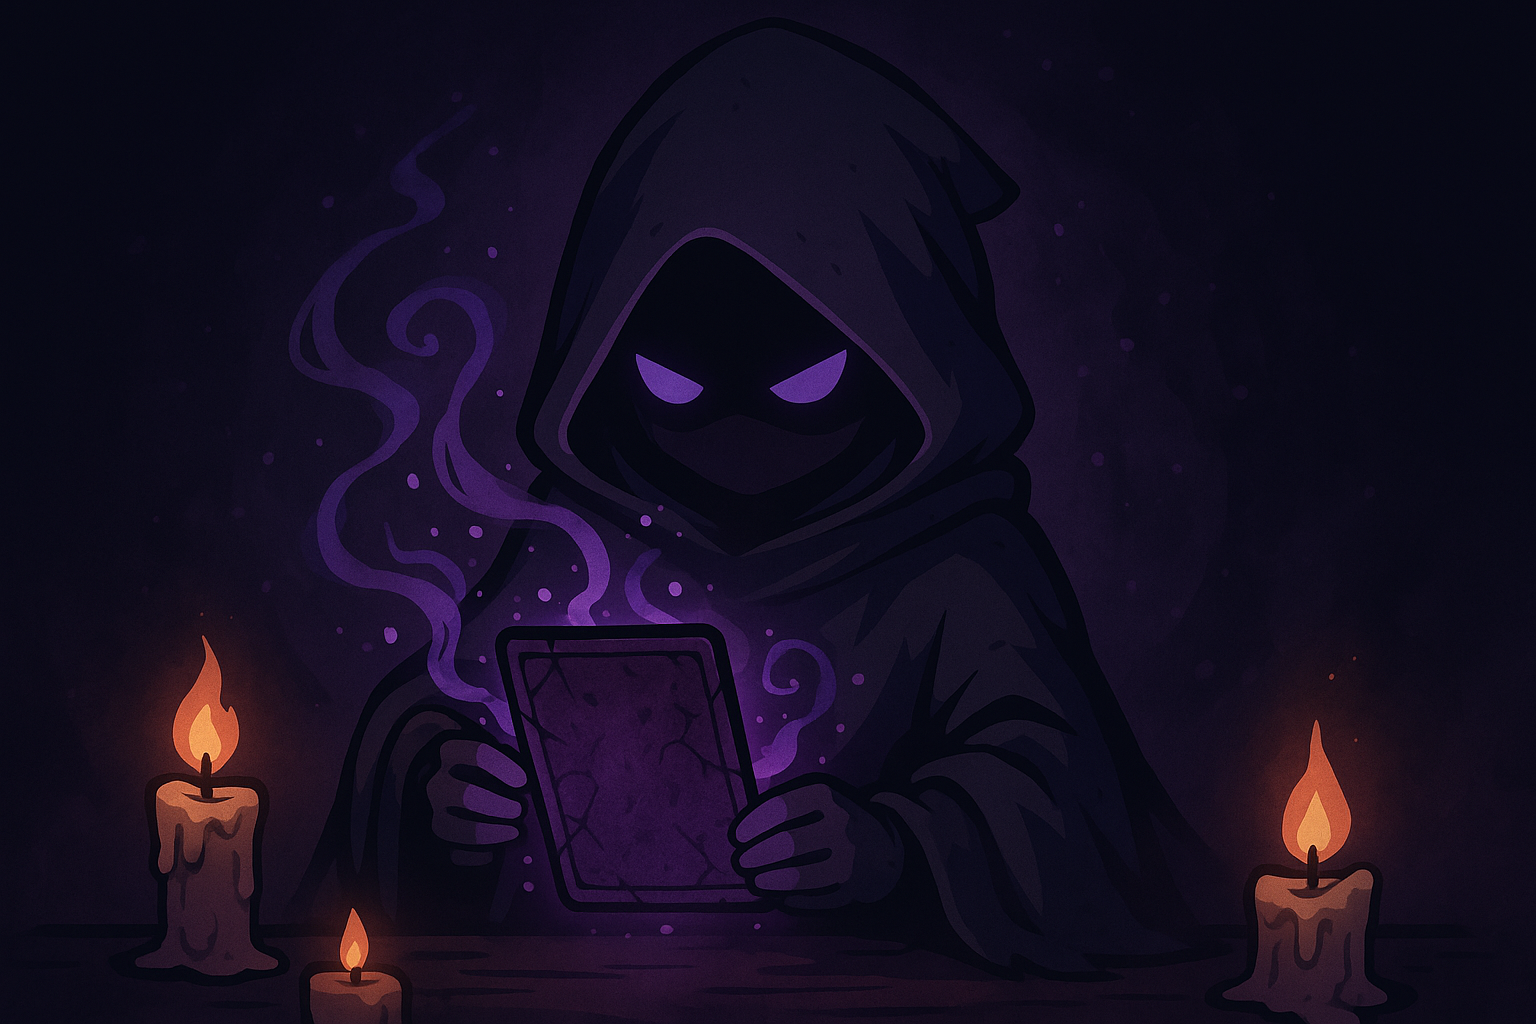
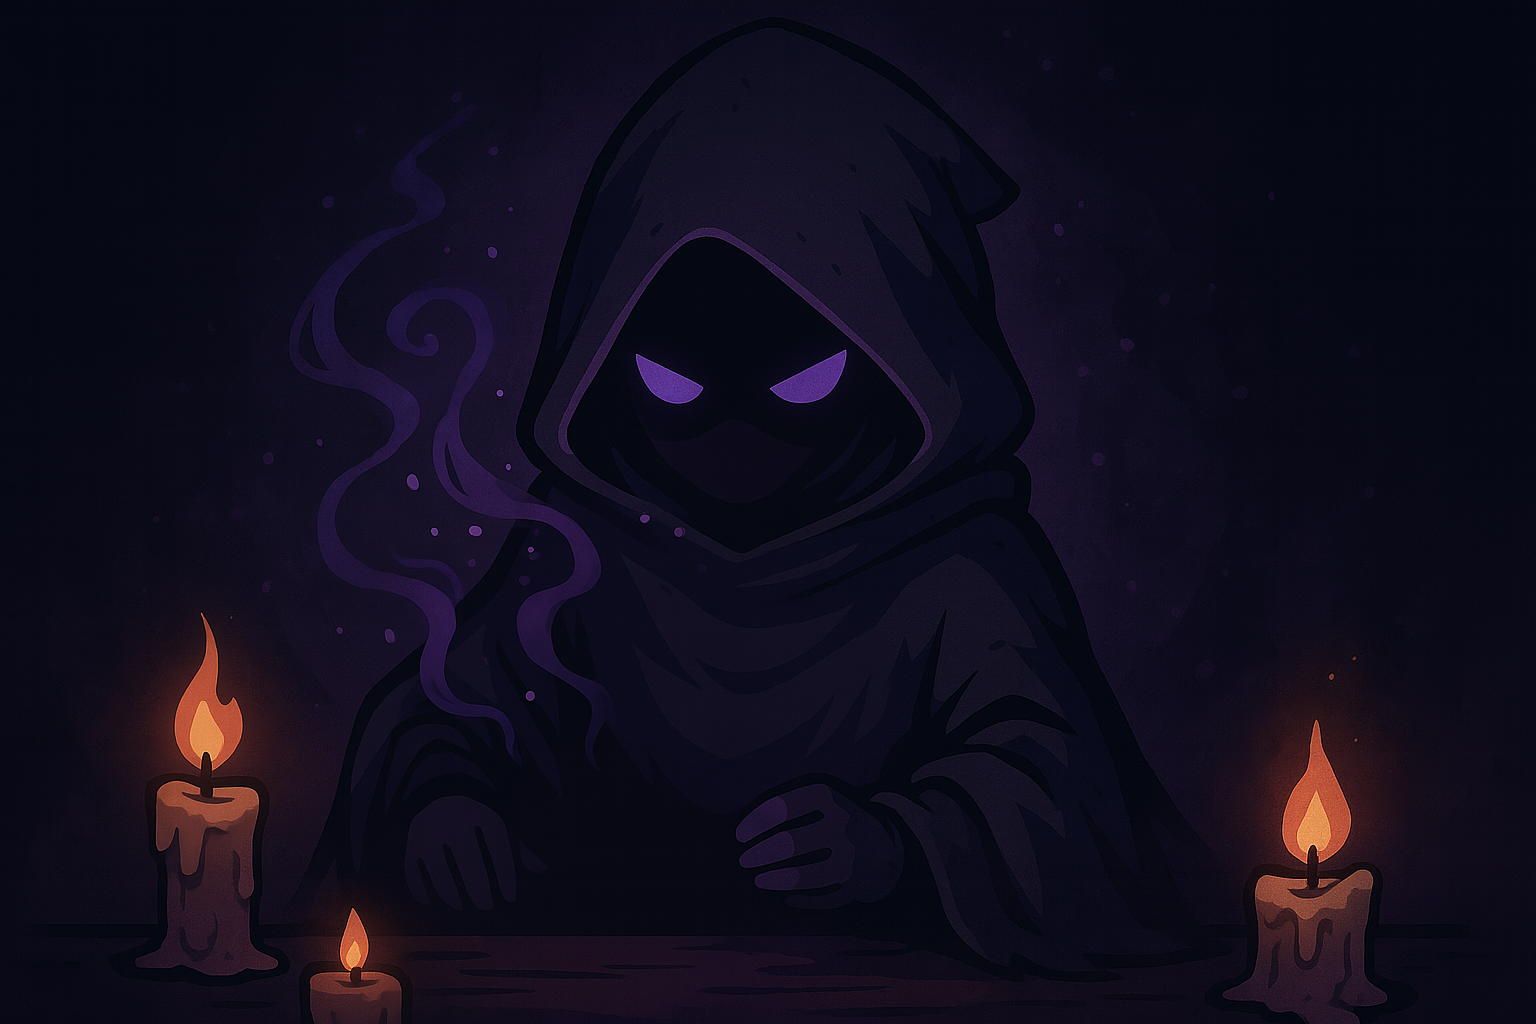
tuning the scene

Changed region(s): [[0.1875, 0.3438, 0.5625, 0.9375], [0.0938, 0.5938, 0.1562, 0.875]]

diff --git a/client/src/scenes/CurseVictoryScene.ts b/client/src/scenes/CurseVictoryScene.ts
@@ -68,6 +68,7 @@ export default class CurseVictoryScene extends Phaser.Scene {
         
         // Initialize music manager
         this.musicManager = new MusicManager(this);
+        this.musicManager.stopCurrentTrack();
         
         // Set background to a neutral color
         this.cameras.main.setBackgroundColor('#000000');
@@ -104,13 +105,16 @@ export default class CurseVictoryScene extends Phaser.Scene {
         const { width, height } = this.scale;
         
         // Calculate responsive positioning for curse card at bottom of screen
-        const cardBottomY = height * 0.4; // Position in bottom area relative to container center
+        const cardLeftX = -width * 0.09;
+        const cardBottomY = height * 0.3; // Position in bottom area relative to container center
         
         // Create curse card sprite
-        this.curseCard = this.add.image(0, cardBottomY, 'curse_card')
+        this.curseCard = this.add.image(cardLeftX, cardBottomY, 'curse_card')
             .setName('curseCard')
             .setAlpha(0) // Start invisible
-            .setDepth(10); // Ensure it's on top
+            .setDepth(10) // Ensure it's on top
+            .setScale(1.35)
+            .setRotation(-0.12);
         
         // Add to container
         this.curseContainer.add(this.curseCard);
@@ -187,6 +191,7 @@ export default class CurseVictoryScene extends Phaser.Scene {
             targets: this.curseCard,
             x: relativeTargetX,
             y: relativeTargetY,
+            rotation: 0,
             scaleX: targetScale,
             scaleY: targetScale,
             duration: 1500, // 1.5 seconds for smooth flight

diff --git a/client/src/scenes/ClassSelectScene.ts b/client/src/scenes/ClassSelectScene.ts
@@ -243,6 +243,12 @@ export default class ClassSelectScene extends Phaser.Scene {
             this.optionsUI.toggle();
         });
         
+        // Handle debug key to test curse victory screen (C key)
+        // Note: This allows testing the curse screen without beating a boss
+        this.input.keyboard?.on('keydown-C', () => {
+            this.launchCurseVictoryScreenDebug();
+        });
+        
         // Only clean up when the scene is actually shut down, not at scene start
         this.events.on('shutdown', this.shutdown, this);
         
@@ -880,6 +886,13 @@ export default class ClassSelectScene extends Phaser.Scene {
             console.error("Error extracting timestamp:", error);
             return null;
         }
+    }
+
+    private launchCurseVictoryScreenDebug() {
+        console.log("ClassSelectScene: Debug command - launching CurseVictoryScene for testing");
+        
+        // Start the CurseVictoryScene for testing
+        this.scene.start('CurseVictoryScene');
     }
 
     shutdown() {

diff --git a/client/src/main.ts b/client/src/main.ts
@@ -5,6 +5,7 @@ import NameSelectScene from './scenes/NameSelectScene';
 import ClassSelectScene from './scenes/ClassSelectScene';
 import DeadScene from './scenes/DeadScene';
 import VictoryScene from './scenes/VictoryScene';
+import CurseVictoryScene from './scenes/CurseVictoryScene';
 import LoadingScene from './scenes/LoadingScene';
 import { Identity } from '@clockworklabs/spacetimedb-sdk';
 import SpacetimeDBClient from './SpacetimeDBClient';
@@ -97,7 +98,7 @@ const config: Phaser.Types.Core.GameConfig = {
             // debug: true // Set to true for physics debugging
         }
     },
-    scene: [TitleScene, NameSelectScene, ClassSelectScene, GameScene, DeadScene, VictoryScene, LoadingScene],
+    scene: [TitleScene, NameSelectScene, ClassSelectScene, GameScene, DeadScene, VictoryScene, CurseVictoryScene, LoadingScene],
     scale: {
         mode: Phaser.Scale.RESIZE,
         autoCenter: Phaser.Scale.CENTER_BOTH

diff --git a/client/src/SpacetimeDBClient.ts b/client/src/SpacetimeDBClient.ts
@@ -6,7 +6,7 @@ import { GameEvents } from './constants/GameEvents';
 // Define your SpacetimeDB connection details
 const SPACETIME_DB_LIVE : string = "vibesurvivors";
 const SPACETIME_DB_PTR : string = "vibesurvivorsptr";
-const SPACETIMEDB_DB_NAME : string = SPACETIME_DB_LIVE;
+const SPACETIMEDB_DB_NAME : string = SPACETIME_DB_PTR;
 
 const LOCAL_SPACETIMEDB_URI : string = "ws://localhost:3000"; // Use wss for cloud, corrected order
 const REMOTE_SPACETIMEDB_URI : string = "wss://maincloud.spacetimedb.com";
